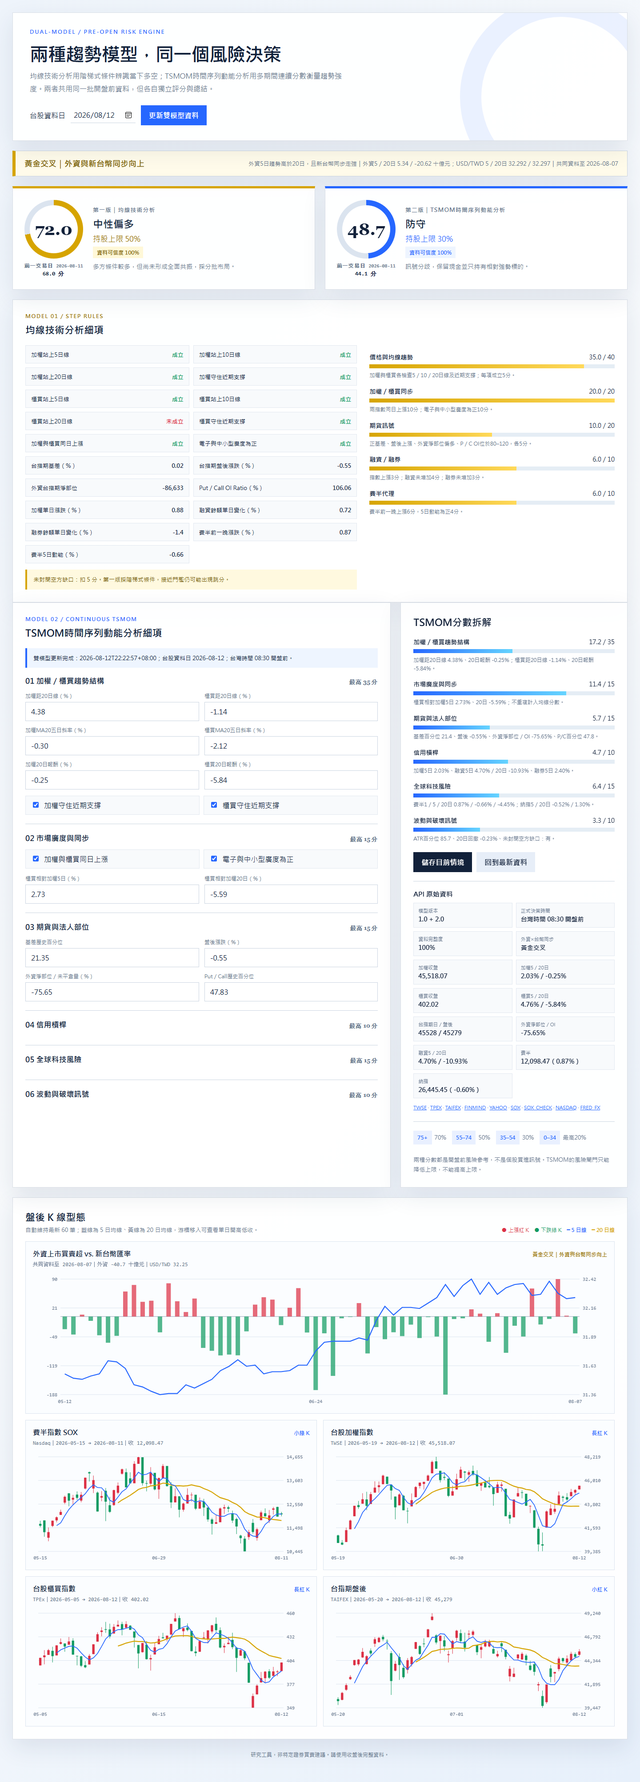
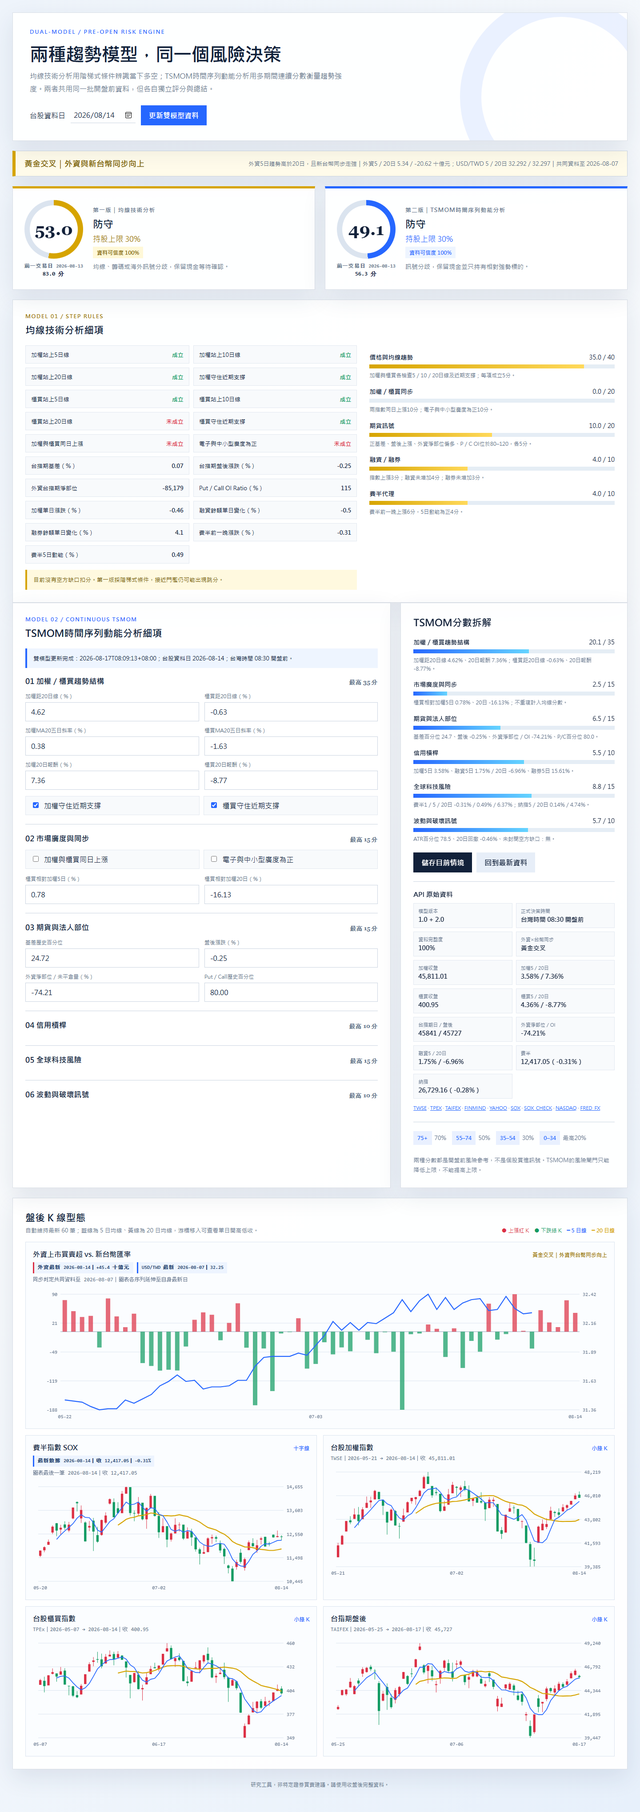
fix: show latest values for foreign FX and SOX charts

diff --git a/index.html b/index.html
@@ -13,7 +13,7 @@
     .model-overview{display:grid;grid-template-columns:1fr 1fr;gap:22px;margin-top:22px}.sync-banner{grid-column:1/-1;display:flex;align-items:center;justify-content:space-between;gap:20px;padding:16px 20px;background:#fff;border:1px solid var(--line);box-shadow:var(--shadow)}.sync-banner strong{font-size:18px}.sync-banner span{color:var(--muted);font-size:13px}.sync-banner.golden{border-left:7px solid #d6a400;background:#fffbea}.sync-banner.golden strong{color:#806100}.sync-banner.death{border-left:7px solid var(--red);background:#fff1f2}.sync-banner.death strong{color:#9f1239}.sync-banner.divergent{border-left:7px solid var(--blue)}.scoreboard{padding:26px;display:grid;grid-template-columns:132px 1fr;align-items:center;gap:22px}.scoreboard.classic{border-top:5px solid #d6a400}.scoreboard.tsmom{border-top:5px solid var(--blue)}.score-stack{text-align:center}.previous-score{margin-top:9px;color:var(--muted);font:700 11px/1.45 Consolas,monospace}.previous-score strong{color:var(--ink);font-size:13px}.dial{width:132px;height:132px;border-radius:50%;display:grid;place-items:center;background:conic-gradient(var(--dial-color,var(--blue)) calc(var(--score)*1%),#dbe4ef 0);position:relative}.dial:after{content:"";position:absolute;inset:12px;border-radius:50%;background:white}.dial span{position:relative;z-index:1;font:800 38px/1 Georgia,serif}.model-name{font-size:13px;font-weight:900;letter-spacing:.08em;color:var(--muted);margin-bottom:8px}.status{font-size:23px;font-weight:800}.limit{color:var(--blue);font-size:17px;margin:7px 0}.classic .limit{color:#9a7400}.confidence{display:inline-block;margin-bottom:8px;padding:5px 9px;background:#eef5ff;color:var(--blue);font-size:12px;font-weight:800}.classic .confidence{background:#fff8d8;color:#806100}.summary{color:var(--muted);line-height:1.6;font-size:14px}
     .grid{display:grid;grid-template-columns:minmax(0,1.25fr) minmax(360px,.75fr);gap:22px}.panel{padding:28px}.panel h2{margin:0 0 20px;font-size:22px}.model-section{margin-top:22px}.model-kicker{font-size:12px;font-weight:900;letter-spacing:.14em;color:var(--blue);margin-bottom:8px}.classic-section .model-kicker{color:#9a7400}.classic-layout{display:grid;grid-template-columns:minmax(0,1.15fr) minmax(360px,.85fr);gap:28px}.classic-signals{display:grid;grid-template-columns:repeat(2,minmax(0,1fr));gap:9px}.classic-signal{display:flex;justify-content:space-between;gap:12px;padding:11px 12px;background:#f8fafc;border:1px solid #e2e8f0;font-size:13px}.classic-signal strong.yes{color:var(--green)}.classic-signal strong.no{color:var(--red)}.classic-signal strong.na{color:var(--muted)}.classic-note{margin-top:14px;padding:12px 14px;background:#fff9df;border-left:4px solid #d6a400;color:#725600;font-size:13px;line-height:1.6}.section{border-top:1px solid var(--line);padding:20px 0}.section:first-of-type{border-top:0;padding-top:0}.section-title{display:flex;justify-content:space-between;align-items:baseline;margin-bottom:14px}.section-title strong{font-size:17px}.section-title span{font:700 13px Georgia,serif;color:var(--muted)}
     .checks{display:grid;grid-template-columns:repeat(2,minmax(0,1fr));gap:9px}.check{display:flex;gap:9px;align-items:flex-start;padding:10px 12px;background:#f8fafc;border:1px solid #e2e8f0}.check input{accent-color:var(--blue);margin-top:3px}.fields{display:grid;grid-template-columns:repeat(2,minmax(0,1fr));gap:12px}.field label{display:block;font-size:12px;color:var(--muted);margin-bottom:6px}.field input{width:100%;border:1px solid var(--line);padding:10px 12px;background:white;color:var(--ink)}details.section summary{list-style:none;cursor:pointer}details.section summary::-webkit-details-marker{display:none}details.section .fields,details.section .checks{margin-top:14px}
-    .results{position:sticky;top:20px}.bar-row{margin:17px 0}.bar-head{display:flex;justify-content:space-between;margin-bottom:7px;font-size:14px}.track{height:9px;background:#e5edf5;overflow:hidden}.fill{height:100%;background:linear-gradient(90deg,var(--blue),var(--cyan));transition:width .35s ease}.note{color:var(--muted);font-size:12px;line-height:1.55;margin-top:6px}.gate-box{display:none;margin:18px 0;padding:12px;border-left:4px solid var(--amber);background:#fff8eb;color:#92400e;font-size:13px;line-height:1.6}.gate-box.error{border-color:var(--red);background:#fff1f2;color:#9f1239}.actions{display:flex;gap:10px;margin-top:22px;flex-wrap:wrap}.actions button,.refresh{border:0;padding:12px 18px;font-weight:800;cursor:pointer}.primary{background:var(--ink);color:white}.secondary{background:#e7eef8;color:var(--ink)}.refresh{background:var(--blue);color:white}.refresh[disabled]{opacity:.55;cursor:wait}.api-status{margin:0 0 18px;padding:12px 14px;background:#eef5ff;border-left:4px solid var(--blue);font-size:13px;line-height:1.55}.api-status.error{background:#fff1f2;border-color:var(--red);color:#9f1239}.raw{margin-top:20px;border-top:1px solid var(--line);padding-top:18px}.raw h3{font-size:15px;margin:0 0 10px}.raw-grid{display:grid;grid-template-columns:1fr 1fr;gap:8px}.raw-item{padding:9px 10px;background:#f8fafc;border:1px solid #e2e8f0}.raw-item span{display:block;color:var(--muted);font-size:11px}.raw-item strong{font-size:14px}.source-list{margin-top:12px;font-size:11px;color:var(--muted);line-height:1.6}.source-list a{color:var(--blue)}.rules{margin-top:22px;padding-top:20px;border-top:1px solid var(--line);font-size:13px;color:var(--muted);line-height:1.75}.badge{display:inline-block;padding:5px 9px;background:#e9f0ff;color:var(--blue);font-weight:800;font-size:12px;margin-right:6px}.charts-panel{margin-top:22px}.charts-head{display:flex;justify-content:space-between;align-items:end;gap:20px;margin-bottom:18px}.charts-head h2{margin:0 0 5px}.charts-head p{margin:0;color:var(--muted);font-size:13px}.chart-legend{font-size:12px;white-space:nowrap}.up-dot{color:var(--red)}.down-dot{color:var(--green)}.ma5-key{color:#2667ff;font-weight:800}.ma20-key{color:#d6a400;font-weight:800}.chart-grid{display:grid;grid-template-columns:repeat(2,minmax(0,1fr));gap:14px}.chart-card{border:1px solid #dbe4ef;background:#fbfdff;padding:16px;min-width:0}.chart-card.wide{grid-column:1/-1}.chart-title{display:flex;justify-content:space-between;gap:12px;align-items:baseline}.chart-title strong{font-size:16px}.pattern{font-size:12px;font-weight:800;color:var(--blue)}.chart-meta{font:12px/1.5 Consolas,monospace;color:var(--muted);margin:5px 0 10px}.chart-wrap{height:250px;position:relative}.chart-card.wide .chart-wrap{height:300px}.chart-wrap canvas{width:100%;height:100%;display:block}.chart-empty{display:grid;place-items:center;height:100%;color:var(--muted);font-size:13px}.footer{text-align:center;color:var(--muted);font-size:12px;padding:26px}
+    .results{position:sticky;top:20px}.bar-row{margin:17px 0}.bar-head{display:flex;justify-content:space-between;margin-bottom:7px;font-size:14px}.track{height:9px;background:#e5edf5;overflow:hidden}.fill{height:100%;background:linear-gradient(90deg,var(--blue),var(--cyan));transition:width .35s ease}.note{color:var(--muted);font-size:12px;line-height:1.55;margin-top:6px}.gate-box{display:none;margin:18px 0;padding:12px;border-left:4px solid var(--amber);background:#fff8eb;color:#92400e;font-size:13px;line-height:1.6}.gate-box.error{border-color:var(--red);background:#fff1f2;color:#9f1239}.actions{display:flex;gap:10px;margin-top:22px;flex-wrap:wrap}.actions button,.refresh{border:0;padding:12px 18px;font-weight:800;cursor:pointer}.primary{background:var(--ink);color:white}.secondary{background:#e7eef8;color:var(--ink)}.refresh{background:var(--blue);color:white}.refresh[disabled]{opacity:.55;cursor:wait}.api-status{margin:0 0 18px;padding:12px 14px;background:#eef5ff;border-left:4px solid var(--blue);font-size:13px;line-height:1.55}.api-status.error{background:#fff1f2;border-color:var(--red);color:#9f1239}.raw{margin-top:20px;border-top:1px solid var(--line);padding-top:18px}.raw h3{font-size:15px;margin:0 0 10px}.raw-grid{display:grid;grid-template-columns:1fr 1fr;gap:8px}.raw-item{padding:9px 10px;background:#f8fafc;border:1px solid #e2e8f0}.raw-item span{display:block;color:var(--muted);font-size:11px}.raw-item strong{font-size:14px}.source-list{margin-top:12px;font-size:11px;color:var(--muted);line-height:1.6}.source-list a{color:var(--blue)}.rules{margin-top:22px;padding-top:20px;border-top:1px solid var(--line);font-size:13px;color:var(--muted);line-height:1.75}.badge{display:inline-block;padding:5px 9px;background:#e9f0ff;color:var(--blue);font-weight:800;font-size:12px;margin-right:6px}.charts-panel{margin-top:22px}.charts-head{display:flex;justify-content:space-between;align-items:end;gap:20px;margin-bottom:18px}.charts-head h2{margin:0 0 5px}.charts-head p{margin:0;color:var(--muted);font-size:13px}.chart-legend{font-size:12px;white-space:nowrap}.up-dot{color:var(--red)}.down-dot{color:var(--green)}.ma5-key{color:#2667ff;font-weight:800}.ma20-key{color:#d6a400;font-weight:800}.chart-grid{display:grid;grid-template-columns:repeat(2,minmax(0,1fr));gap:14px}.chart-card{border:1px solid #dbe4ef;background:#fbfdff;padding:16px;min-width:0}.chart-card.wide{grid-column:1/-1}.chart-title{display:flex;justify-content:space-between;gap:12px;align-items:baseline}.chart-title strong{font-size:16px}.pattern{font-size:12px;font-weight:800;color:var(--blue)}.latest-row{display:flex;gap:8px;flex-wrap:wrap;margin:8px 0 5px}.latest-chip{padding:5px 8px;background:#edf4ff;border-left:3px solid var(--blue);color:#24446f;font:700 11px/1.35 Consolas,monospace}.latest-chip.foreign{border-color:var(--red)}.latest-chip.fx{border-color:var(--blue)}.chart-meta{font:12px/1.5 Consolas,monospace;color:var(--muted);margin:5px 0 10px}.chart-wrap{height:250px;position:relative}.chart-card.wide .chart-wrap{height:300px}.chart-wrap canvas{width:100%;height:100%;display:block}.chart-empty{display:grid;place-items:center;height:100%;color:var(--muted);font-size:13px}.footer{text-align:center;color:var(--muted);font-size:12px;padding:26px}
     @media(max-width:980px){.model-overview,.grid,.classic-layout{grid-template-columns:1fr}.scoreboard{grid-template-columns:120px 1fr}.dial{width:120px;height:120px}.results{position:static}.chart-grid{grid-template-columns:1fr}}@media(max-width:620px){.shell{padding:12px}.hero,.panel,.scoreboard{padding:20px}.fields,.checks,.classic-signals{grid-template-columns:1fr}h1{font-size:32px}.scoreboard{grid-template-columns:1fr}.dial{margin:auto}.charts-head{display:block}.chart-legend{margin-top:10px}.chart-wrap{height:220px}}
     @media(prefers-reduced-motion:reduce){*{transition:none!important}}
   </style>
@@ -65,8 +65,8 @@
   <section class="panel charts-panel">
     <div class="charts-head"><div><h2>盤後 K 線型態</h2><p>自動維持最新 60 筆；藍線為 5 日均線、黃線為 20 日均線，游標移入可查看單日開高低收。</p></div><div class="chart-legend"><span class="up-dot">● 上漲紅 K</span>　<span class="down-dot">● 下跌綠 K</span>　<span class="ma5-key">━ 5 日線</span>　<span class="ma20-key">━ 20 日線</span></div></div>
     <div class="chart-grid">
-      <article class="chart-card wide"><div class="chart-title"><strong>外資上市買賣超 vs. 新台幣匯率</strong><span class="pattern" id="pattern-foreignFx">等待資料</span></div><div class="chart-meta" id="meta-foreignFx">外資：十億元｜匯率：USD/TWD（下跌代表台幣走強）</div><div class="chart-wrap" id="wrap-foreignFx"><canvas id="chart-foreignFx"></canvas></div></article>
-      <article class="chart-card"><div class="chart-title"><strong>費半指數 SOX</strong><span class="pattern" id="pattern-sox">等待資料</span></div><div class="chart-meta" id="meta-sox">Nasdaq｜日 K</div><div class="chart-wrap" id="wrap-sox"><canvas id="chart-sox"></canvas></div></article>
+      <article class="chart-card wide"><div class="chart-title"><strong>外資上市買賣超 vs. 新台幣匯率</strong><span class="pattern" id="pattern-foreignFx">等待資料</span></div><div class="latest-row" id="latest-foreignFx"><span class="latest-chip">最新數據等待更新</span></div><div class="chart-meta" id="meta-foreignFx">外資：十億元｜匯率：USD/TWD（下跌代表台幣走強）</div><div class="chart-wrap" id="wrap-foreignFx"><canvas id="chart-foreignFx"></canvas></div></article>
+      <article class="chart-card"><div class="chart-title"><strong>費半指數 SOX</strong><span class="pattern" id="pattern-sox">等待資料</span></div><div class="latest-row" id="latest-sox"><span class="latest-chip">最新數據等待更新</span></div><div class="chart-meta" id="meta-sox">Nasdaq｜日 K</div><div class="chart-wrap" id="wrap-sox"><canvas id="chart-sox"></canvas></div></article>
       <article class="chart-card"><div class="chart-title"><strong>台股加權指數</strong><span class="pattern" id="pattern-taiex">等待資料</span></div><div class="chart-meta" id="meta-taiex">TWSE｜日 K</div><div class="chart-wrap" id="wrap-taiex"><canvas id="chart-taiex"></canvas></div></article>
       <article class="chart-card"><div class="chart-title"><strong>台股櫃買指數</strong><span class="pattern" id="pattern-tpex">等待資料</span></div><div class="chart-meta" id="meta-tpex">TPEx｜日 K</div><div class="chart-wrap" id="wrap-tpex"><canvas id="chart-tpex"></canvas></div></article>
       <article class="chart-card"><div class="chart-title"><strong>台指期盤後</strong><span class="pattern" id="pattern-futuresNight">等待資料</span></div><div class="chart-meta" id="meta-futuresNight">TAIFEX｜盤後交易時段</div><div class="chart-wrap" id="wrap-futuresNight"><canvas id="chart-futuresNight"></canvas></div></article>
@@ -77,10 +77,12 @@
 <script src="scoring.js"></script>
 <script>
   const ids=['taiexCloseMa20Pct','taiexMa20Slope5','taiexRet20','taiexSupport','tpexCloseMa20Pct','tpexMa20Slope5','tpexRet20','tpexSupport','bothUp','breadthPositive','tpexRelative5','tpexRelative20','basisPercentile','nightPct','foreignOiPct','pcrPercentile','priceRet5','marginRet5','marginRet20','shortRet5','soxRet1','soxRet5','soxRet20','nasdaqRet5','nasdaqRet20','soxRelative20','atrPercentile','drawdown20','bearGap'];
-  let chartSeries={},classicInput={},foreignFxMeta={},previousReference=null;
+  let chartSeries={},classicInput={},foreignFxMeta={},marketMeta={},previousReference=null;
   const read=()=>Object.fromEntries(ids.map(id=>{const el=document.getElementById(id);return[id,el.type==='checkbox'?el.checked:(el.value===''?null:Number(el.value))]}));
   const classicFromData=data=>{const m=data.market||{},i=data.input||{},t=m.taiex||{},o=m.tpex||{},f=m.futures||{},c=m.credit||{},s=m.sox||{};return{taiexAboveMa5:t.close!=null&&t.mas?.['5']!=null?t.close>=t.mas['5']:null,taiexAboveMa10:t.close!=null&&t.mas?.['10']!=null?t.close>=t.mas['10']:null,taiexAboveMa20:t.close!=null&&t.mas?.['20']!=null?t.close>=t.mas['20']:null,tpexAboveMa5:o.close!=null&&o.mas?.['5']!=null?o.close>=o.mas['5']:null,tpexAboveMa10:o.close!=null&&o.mas?.['10']!=null?o.close>=o.mas['10']:null,tpexAboveMa20:o.close!=null&&o.mas?.['20']!=null?o.close>=o.mas['20']:null,taiexSupport:i.taiexSupport,tpexSupport:i.tpexSupport,bothUp:i.bothUp,breadthPositive:i.breadthPositive,basisPct:f.basis_pct,nightPct:i.nightPct,foreignNet:f.foreign_net,pcrOi:f.pcr_oi,pricePct:t.close!=null&&t.previous?((t.close/t.previous-1)*100):null,marginPct:c.margin_pct,shortPct:c.short_pct,soxPct:s.change_pct,soxRet5:i.soxRet5,bearGap:i.bearGap}};
   const classicLabels=[['taiexAboveMa5','加權站上5日線'],['taiexAboveMa10','加權站上10日線'],['taiexAboveMa20','加權站上20日線'],['taiexSupport','加權守住近期支撐'],['tpexAboveMa5','櫃買站上5日線'],['tpexAboveMa10','櫃買站上10日線'],['tpexAboveMa20','櫃買站上20日線'],['tpexSupport','櫃買守住近期支撐'],['bothUp','加權與櫃買同日上漲'],['breadthPositive','電子與中小型廣度為正'],['basisPct','台指期基差（%）'],['nightPct','台指期盤後漲跌（%）'],['foreignNet','外資台指期淨部位'],['pcrOi','Put／Call OI Ratio（%）'],['pricePct','加權單日漲跌（%）'],['marginPct','融資餘額單日變化（%）'],['shortPct','融券餘額單日變化（%）'],['soxPct','費半前一晚漲跌（%）'],['soxRet5','費半5日動能（%）']];
+  const signed=(value,digits=2)=>value==null?'N/A':`${value>=0?'+':''}${Number(value).toFixed(digits)}`;
+  function renderLatestFields(){const fx=marketMeta.foreign_fx||{},sox=marketMeta.sox||{},foreign=document.getElementById('latest-foreignFx'),soxField=document.getElementById('latest-sox');foreign.innerHTML=fx.foreign_as_of?`<span class="latest-chip foreign">外資最新 ${fx.foreign_as_of}｜${signed(fx.foreign_latest_bn,1)} 十億元</span><span class="latest-chip fx">USD/TWD 最新 ${fx.fx_as_of}｜${Number(fx.usd_twd_latest).toFixed(2)}</span>`:'<span class="latest-chip">最新數據 unavailable</span>';soxField.innerHTML=sox.date?`<span class="latest-chip">最新數據 ${sox.date}｜收 ${Number(sox.close).toLocaleString()}｜${signed(sox.change_pct)}%</span>`:'<span class="latest-chip">最新數據 unavailable</span>'}
   function renderPreviousScores(){const day=previousReference?.trading_day;if(!day){document.getElementById('classicPrevious').innerHTML='前一交易日 <strong>N/A</strong>';document.getElementById('tsmomPrevious').innerHTML='前一交易日 <strong>N/A</strong>';return}const classic=TrendScorer.scoreClassic(previousReference.classic_input),tsmom=TrendScorer.score(previousReference.input);document.getElementById('classicPrevious').innerHTML=`前一交易日 ${day}<br><strong>${classic.total.toFixed(1)} 分</strong>`;document.getElementById('tsmomPrevious').innerHTML=`前一交易日 ${day}<br><strong>${tsmom.total.toFixed(1)} 分</strong>`}
   function renderClassic(){const r=TrendScorer.scoreClassic(classicInput),fmt=(k,v)=>typeof v==='boolean'?`<strong class="${v?'yes':'no'}">${v?'成立':'未成立'}</strong>`:(v===null||v===undefined?'<strong class="na">N/A</strong>':`<strong>${Number(v).toLocaleString(undefined,{maximumFractionDigits:k==='foreignNet'?0:2})}</strong>`);document.getElementById('classicTotal').textContent=r.total.toFixed(1);document.getElementById('classicDial').style.setProperty('--score',r.total);document.getElementById('classicStatus').textContent=r.regime.name;document.getElementById('classicLimit').textContent=`持股上限 ${r.regime.exposure}`;document.getElementById('classicConfidence').textContent=`資料可信度 ${r.confidence.toFixed(0)}%`;document.getElementById('classicSummary').textContent=r.regime.summary;document.getElementById('classicSignals').innerHTML=classicLabels.map(([k,label])=>`<div class="classic-signal"><span>${label}</span>${fmt(k,classicInput[k])}</div>`).join('');document.getElementById('classicBreakdown').innerHTML=r.details.map(d=>`<div class="bar-row"><div class="bar-head"><strong>${d.label}</strong><span>${d.score.toFixed(1)}／${d.max}</span></div><div class="track"><div class="fill" style="width:${d.score/d.max*100}%;background:linear-gradient(90deg,#d6a400,#ffd95a)"></div></div><div class="note">${d.note}</div></div>`).join('');document.getElementById('classicPenalty').textContent=r.gapPenalty?`未封閉空方缺口：扣 ${r.gapPenalty} 分。第一版採階梯式條件，接近門檻仍可能出現跳分。`:'目前沒有空方缺口扣分。第一版採階梯式條件，接近門檻仍可能出現跳分。';}
   function render(){const r=TrendScorer.score(read()),gate=document.getElementById('gateBox');document.getElementById('total').textContent=r.total.toFixed(1);document.getElementById('dial').style.setProperty('--score',r.total);document.getElementById('status').textContent=r.regime.name;document.getElementById('limit').textContent=`持股上限 ${r.regime.exposure}`;document.getElementById('confidence').textContent=`資料可信度 ${r.confidence.toFixed(0)}%`;document.getElementById('summary').textContent=r.regime.summary;gate.style.display=r.gates.length?'block':'none';gate.className='gate-box'+(!r.actionable?' error':'');gate.textContent=r.gates.length?`風險閘門：${r.gates.join('；')}`:'';document.getElementById('breakdown').innerHTML=r.details.map(d=>`<div class="bar-row"><div class="bar-head"><strong>${d.label}</strong><span>${d.score.toFixed(1)}／${d.max}${d.complete?'':` · 可用${d.availableMax}`}</span></div><div class="track"><div class="fill" style="width:${d.score/d.max*100}%"></div></div><div class="note">${d.note}</div></div>`).join('');renderClassic();}
@@ -97,20 +99,30 @@
     const movingAverage=size=>rows.map((r,i)=>i<size-1?null:rows.slice(i-size+1,i+1).reduce((s,v)=>s+v.close,0)/size);
     const drawAverage=(values,start,color,width)=>{c.strokeStyle=color;c.lineWidth=width;c.beginPath();values.forEach((v,i)=>{if(v!==null)(i===start?c.moveTo(x(i),y(v)):c.lineTo(x(i),y(v)))});c.stroke()};
     drawAverage(movingAverage(20),19,'#d6a400',2.2);drawAverage(movingAverage(5),4,'#2667ff',1.7);canvas.dataset.ma5='drawn';canvas.dataset.ma20='drawn';
-    c.fillStyle='#64748b';c.textAlign='center';[0,Math.floor((rows.length-1)/2),rows.length-1].forEach(i=>c.fillText(rows[i].date.slice(5),x(i),h-7));const last=rows.at(-1);pattern.textContent=candlePattern(last);meta.textContent=`${meta.textContent.split('｜')[0]}｜${rows[0].date} → ${last.date}｜收 ${last.close.toLocaleString()}`;
+    c.fillStyle='#64748b';c.textAlign='center';[0,Math.floor((rows.length-1)/2),rows.length-1].forEach(i=>c.fillText(rows[i].date.slice(5),x(i),h-7));const last=rows.at(-1);pattern.textContent=candlePattern(last);meta.textContent=key==='sox'?`圖表最後一筆 ${last.date}｜收 ${last.close.toLocaleString()}`:`${meta.textContent.split('｜')[0]}｜${rows[0].date} → ${last.date}｜收 ${last.close.toLocaleString()}`;
     canvas.onmousemove=e=>{const rect=canvas.getBoundingClientRect(),i=Math.max(0,Math.min(rows.length-1,Math.floor((e.clientX-rect.left-pad.l)/(iw/rows.length)))),r=rows[i];meta.textContent=`${r.date}｜開 ${r.open.toLocaleString()}　高 ${r.high.toLocaleString()}　低 ${r.low.toLocaleString()}　收 ${r.close.toLocaleString()}`};canvas.onmouseleave=()=>drawChart(key,rows);meta.dataset.count=rows.length;meta.title=`目前顯示最新 ${rows.length} 筆資料`;
   }
-  function drawForeignFx(rows){const canvas=document.getElementById('chart-foreignFx'),wrap=document.getElementById('wrap-foreignFx'),pattern=document.getElementById('pattern-foreignFx'),meta=document.getElementById('meta-foreignFx');if(!canvas||!wrap)return;if(!rows?.length){wrap.innerHTML='<div class="chart-empty">目前沒有共同日期的外資與匯率資料</div>';pattern.textContent='資料不足';return}rows=rows.slice(-60);const dpr=Math.min(devicePixelRatio||1,2),w=wrap.clientWidth,h=wrap.clientHeight;canvas.width=w*dpr;canvas.height=h*dpr;const c=canvas.getContext('2d');c.scale(dpr,dpr);const pad={l:62,r:62,t:14,b:26},iw=w-pad.l-pad.r,ih=h-pad.t-pad.b,x=i=>pad.l+(i+.5)*iw/rows.length,bw=Math.max(3,Math.min(10,iw/rows.length*.55));const foreign=rows.map(r=>r.foreign_net_bn),fMin=Math.min(0,...foreign),fMax=Math.max(0,...foreign),fRange=fMax-fMin||1,yF=v=>pad.t+(fMax-v)/fRange*ih,zero=yF(0);const fx=rows.map(r=>r.usd_twd),fxMin=Math.min(...fx),fxMax=Math.max(...fx),fxRange=fxMax-fxMin||1,yX=v=>pad.t+(fxMax-v)/fxRange*ih;c.font='11px Consolas';c.strokeStyle='#dce5ef';c.fillStyle='#64748b';c.lineWidth=1;for(let i=0;i<5;i++){const yy=pad.t+ih*i/4;c.beginPath();c.moveTo(pad.l,yy);c.lineTo(pad.l+iw,yy);c.stroke();c.textAlign='right';c.fillText((fMax-fRange*i/4).toFixed(0),pad.l-7,yy+4);c.textAlign='left';c.fillText((fxMax-fxRange*i/4).toFixed(2),pad.l+iw+7,yy+4)}c.strokeStyle='#94a3b8';c.beginPath();c.moveTo(pad.l,zero);c.lineTo(pad.l+iw,zero);c.stroke();rows.forEach((r,i)=>{c.fillStyle=r.foreign_net_bn>=0?'rgba(220,48,69,.72)':'rgba(18,155,99,.72)';const yy=yF(r.foreign_net_bn);c.fillRect(x(i)-bw/2,Math.min(zero,yy),bw,Math.max(1,Math.abs(zero-yy)))});c.strokeStyle='#2667ff';c.lineWidth=2.2;c.beginPath();rows.forEach((r,i)=>i?c.lineTo(x(i),yX(r.usd_twd)):c.moveTo(x(i),yX(r.usd_twd)));c.stroke();c.fillStyle='#64748b';c.textAlign='center';[0,Math.floor((rows.length-1)/2),rows.length-1].forEach(i=>c.fillText(rows[i].date.slice(5),x(i),h-7));const labels={golden:'黃金交叉｜外資與台幣同步向上',death:'死亡交叉｜外資與台幣同步向下',divergent:'方向分歧',unavailable:'資料不足'},last=rows.at(-1);pattern.textContent=labels[foreignFxMeta.signal]||'方向分歧';pattern.style.color=foreignFxMeta.signal==='death'?'#dc3045':foreignFxMeta.signal==='golden'?'#9a7400':'#2667ff';meta.textContent=`共同資料至 ${foreignFxMeta.as_of||last.date}｜外資 ${last.foreign_net_bn.toFixed(1)} 十億元｜USD/TWD ${last.usd_twd.toFixed(2)}`;canvas.dataset.sync='drawn';canvas.onmousemove=e=>{const rect=canvas.getBoundingClientRect(),i=Math.max(0,Math.min(rows.length-1,Math.floor((e.clientX-rect.left-pad.l)/(iw/rows.length)))),r=rows[i];meta.textContent=`${r.date}｜外資 ${r.foreign_net_bn.toFixed(1)} 十億元｜USD/TWD ${r.usd_twd.toFixed(2)}`};canvas.onmouseleave=()=>drawForeignFx(rows)}
+  function drawForeignFx(rows){
+    const canvas=document.getElementById('chart-foreignFx'),wrap=document.getElementById('wrap-foreignFx'),pattern=document.getElementById('pattern-foreignFx'),meta=document.getElementById('meta-foreignFx');if(!canvas||!wrap)return;
+    if(!rows?.length){wrap.innerHTML='<div class="chart-empty">目前沒有外資或匯率資料</div>';pattern.textContent='資料不足';return}
+    rows=rows.slice(-60);const dpr=Math.min(devicePixelRatio||1,2),w=wrap.clientWidth,h=wrap.clientHeight;canvas.width=w*dpr;canvas.height=h*dpr;const c=canvas.getContext('2d');c.scale(dpr,dpr);const pad={l:62,r:62,t:14,b:26},iw=w-pad.l-pad.r,ih=h-pad.t-pad.b,x=i=>pad.l+(i+.5)*iw/rows.length,bw=Math.max(3,Math.min(10,iw/rows.length*.55));
+    const foreign=rows.map(r=>r.foreign_net_bn).filter(Number.isFinite),fMin=Math.min(0,...foreign),fMax=Math.max(0,...foreign),fRange=fMax-fMin||1,yF=v=>pad.t+(fMax-v)/fRange*ih,zero=yF(0);const fx=rows.map(r=>r.usd_twd).filter(Number.isFinite),fxMin=Math.min(...fx),fxMax=Math.max(...fx),fxRange=fxMax-fxMin||1,yX=v=>pad.t+(fxMax-v)/fxRange*ih;
+    c.font='11px Consolas';c.strokeStyle='#dce5ef';c.fillStyle='#64748b';c.lineWidth=1;for(let i=0;i<5;i++){const yy=pad.t+ih*i/4;c.beginPath();c.moveTo(pad.l,yy);c.lineTo(pad.l+iw,yy);c.stroke();c.textAlign='right';c.fillText((fMax-fRange*i/4).toFixed(0),pad.l-7,yy+4);c.textAlign='left';c.fillText((fxMax-fxRange*i/4).toFixed(2),pad.l+iw+7,yy+4)}
+    c.strokeStyle='#94a3b8';c.beginPath();c.moveTo(pad.l,zero);c.lineTo(pad.l+iw,zero);c.stroke();rows.forEach((r,i)=>{if(!Number.isFinite(r.foreign_net_bn))return;c.fillStyle=r.foreign_net_bn>=0?'rgba(220,48,69,.72)':'rgba(18,155,99,.72)';const yy=yF(r.foreign_net_bn);c.fillRect(x(i)-bw/2,Math.min(zero,yy),bw,Math.max(1,Math.abs(zero-yy)))});
+    c.strokeStyle='#2667ff';c.lineWidth=2.2;c.beginPath();let started=false;rows.forEach((r,i)=>{if(!Number.isFinite(r.usd_twd))return;started?c.lineTo(x(i),yX(r.usd_twd)):c.moveTo(x(i),yX(r.usd_twd));started=true});c.stroke();
+    c.fillStyle='#64748b';c.textAlign='center';[0,Math.floor((rows.length-1)/2),rows.length-1].forEach(i=>c.fillText(rows[i].date.slice(5),x(i),h-7));const labels={golden:'黃金交叉｜外資與台幣同步向上',death:'死亡交叉｜外資與台幣同步向下',divergent:'方向分歧',unavailable:'資料不足'};pattern.textContent=labels[foreignFxMeta.signal]||'方向分歧';pattern.style.color=foreignFxMeta.signal==='death'?'#dc3045':foreignFxMeta.signal==='golden'?'#9a7400':'#2667ff';meta.textContent=`同步判定共同資料至 ${foreignFxMeta.as_of||'N/A'}｜圖表各序列延伸至自身最新日`;
+    canvas.dataset.sync='drawn';canvas.dataset.lastDate=rows.at(-1).date;canvas.onmousemove=e=>{const rect=canvas.getBoundingClientRect(),i=Math.max(0,Math.min(rows.length-1,Math.floor((e.clientX-rect.left-pad.l)/(iw/rows.length)))),r=rows[i],foreignValue=Number.isFinite(r.foreign_net_bn)?`${r.foreign_net_bn.toFixed(1)} 十億元`:'N/A',fxValue=Number.isFinite(r.usd_twd)?r.usd_twd.toFixed(2):'N/A';meta.textContent=`${r.date}｜外資 ${foreignValue}｜USD/TWD ${fxValue}`};canvas.onmouseleave=()=>drawForeignFx(rows)
+  }
   function drawAllCharts(){Object.entries(chartSeries).forEach(([k,v])=>k==='foreignFx'?drawForeignFx(v):drawChart(k,v))}
   const hosted=location.hostname.endsWith('github.io')||new URLSearchParams(location.search).has('static');
   const cachedUrl=hosted?'./latest_market_data.json':'/api/cached';
   function applyData(data){
     classicInput=data.classic_input||classicFromData(data);
     previousReference=data.previous_reference||null;renderPreviousScores();
-    foreignFxMeta=data.market?.foreign_fx||{};const sync=document.getElementById('syncSignal'),labels={golden:['黃金交叉｜外資與新台幣同步向上','外資5日趨勢高於20日，且新台幣同步走強'],death:['死亡交叉｜外資與新台幣同步向下','外資5日趨勢低於20日，且新台幣同步走弱'],divergent:['方向分歧｜尚未形成同步交叉','外資與新台幣方向不同或持平，不標示交叉'],unavailable:['同步訊號資料不足','缺值不視為同步向上或向下']},signal=foreignFxMeta.signal||'unavailable',copy=labels[signal]||labels.unavailable,values=foreignFxMeta.foreign_ma5_bn!=null?`｜外資5／20日 ${foreignFxMeta.foreign_ma5_bn}／${foreignFxMeta.foreign_ma20_bn} 十億元；USD/TWD 5／20日 ${foreignFxMeta.usd_twd_ma5}／${foreignFxMeta.usd_twd_ma20}`:'';sync.className=`sync-banner ${signal}`;sync.innerHTML=`<strong>${copy[0]}</strong><span>${copy[1]}${values}｜共同資料至 ${foreignFxMeta.as_of||'N/A'}</span>`;
+    marketMeta=data.market||{};foreignFxMeta=marketMeta.foreign_fx||{};renderLatestFields();const sync=document.getElementById('syncSignal'),labels={golden:['黃金交叉｜外資與新台幣同步向上','外資5日趨勢高於20日，且新台幣同步走強'],death:['死亡交叉｜外資與新台幣同步向下','外資5日趨勢低於20日，且新台幣同步走弱'],divergent:['方向分歧｜尚未形成同步交叉','外資與新台幣方向不同或持平，不標示交叉'],unavailable:['同步訊號資料不足','缺值不視為同步向上或向下']},signal=foreignFxMeta.signal||'unavailable',copy=labels[signal]||labels.unavailable,values=foreignFxMeta.foreign_ma5_bn!=null?`｜外資5／20日 ${foreignFxMeta.foreign_ma5_bn}／${foreignFxMeta.foreign_ma20_bn} 十億元；USD/TWD 5／20日 ${foreignFxMeta.usd_twd_ma5}／${foreignFxMeta.usd_twd_ma20}`:'';sync.className=`sync-banner ${signal}`;sync.innerHTML=`<strong>${copy[0]}</strong><span>${copy[1]}${values}｜共同資料至 ${foreignFxMeta.as_of||'N/A'}</span>`;
     Object.entries(data.input||{}).forEach(([id,v])=>{const el=document.getElementById(id);if(el)el.type==='checkbox'?el.checked=!!v:el.value=(v===null||v===undefined?'':Number(v).toFixed(2))});
     document.getElementById('asof').value=data.trading_day||'';
-    const m=data.market||{};
+    const m=marketMeta;
     const items=[['模型版本',data.model_version||'-'],['正式決策時間',data.decision_clock||'-'],['資料完整度',`${data.data_quality?.completeness??'-'}%`],['外資×台幣同步',copy[0].split('｜')[0]],['加權收盤',m.taiex?.close?.toLocaleString()],['加權5／20日',`${m.taiex?.ret5?.toFixed(2)??'-'}%／${m.taiex?.ret20?.toFixed(2)??'-'}%`],['櫃買收盤',m.tpex?.close?.toLocaleString()],['櫃買5／20日',`${m.tpex?.ret5?.toFixed(2)??'-'}%／${m.tpex?.ret20?.toFixed(2)??'-'}%`],['台指期日／盤後',`${m.futures?.day??'-'}／${m.futures?.night??'-'}`],['外資淨部位／OI',`${m.futures?.foreign_oi_pct?.toFixed(2)??'-'}%`],['融資5／20日',`${m.credit?.margin_ret5?.toFixed(2)??'-'}%／${m.credit?.margin_ret20?.toFixed(2)??'-'}%`],['費半',`${m.sox?.close?.toLocaleString()??'-'}（${m.sox?.change_pct?.toFixed(2)??'-'}%）`],['納指',`${m.nasdaq?.close?.toLocaleString()??'-'}（${m.nasdaq?.change_pct?.toFixed(2)??'-'}%）`]];
     document.getElementById('rawGrid').innerHTML=items.map(x=>`<div class="raw-item"><span>${x[0]}</span><strong>${x[1]}</strong></div>`).join('');
     document.getElementById('sourceList').innerHTML=Object.entries(data.sources||{}).map(([k,u])=>`<a href="${u}" target="_blank" rel="noreferrer">${k.toUpperCase()}</a>`).join(' · ');
@@ -124,6 +136,6 @@
   document.getElementById('refresh').onclick=refresh;
   document.getElementById('reset').onclick=()=>{localStorage.removeItem('trend-scorer-v2');refresh()};
   window.addEventListener('resize',()=>{clearTimeout(window.chartResizeTimer);window.chartResizeTimer=setTimeout(drawAllCharts,120)});
-  const saved=JSON.parse(localStorage.getItem('trend-scorer-v2')||'null');if(saved){document.getElementById('asof').value=saved.asof||'';Object.entries(saved.data||{}).forEach(([id,v])=>{const el=document.getElementById(id);if(el)el.type==='checkbox'?el.checked=!!v:el.value=(v??'')});render();fetch(cachedUrl,{cache:'no-store'}).then(r=>r.json()).then(d=>{if(d.ok){classicInput=d.classic_input||classicFromData(d);previousReference=d.previous_reference||null;chartSeries=d.charts||{};renderPreviousScores();renderClassic();drawAllCharts()}})}else{render();fetch(cachedUrl,{cache:'no-store'}).then(r=>r.json()).then(d=>{if(d.ok)applyData(d)}).finally(refresh)}
+  const saved=JSON.parse(localStorage.getItem('trend-scorer-v2')||'null');if(saved){document.getElementById('asof').value=saved.asof||'';Object.entries(saved.data||{}).forEach(([id,v])=>{const el=document.getElementById(id);if(el)el.type==='checkbox'?el.checked=!!v:el.value=(v??'')});render();fetch(cachedUrl,{cache:'no-store'}).then(r=>r.json()).then(d=>{if(d.ok){classicInput=d.classic_input||classicFromData(d);previousReference=d.previous_reference||null;marketMeta=d.market||{};foreignFxMeta=marketMeta.foreign_fx||{};chartSeries=d.charts||{};renderPreviousScores();renderLatestFields();renderClassic();drawAllCharts()}})}else{render();fetch(cachedUrl,{cache:'no-store'}).then(r=>r.json()).then(d=>{if(d.ok)applyData(d)}).finally(refresh)}
 </script>
 </body></html>

diff --git a/server.py b/server.py
@@ -276,12 +276,19 @@ def foreign_fx_bundle(today: date):
         parts = line.split(",")
         if len(parts) == 2 and clean_number(parts[1]) is not None: fx[parts[0]] = clean_number(parts[1])
     common = sorted(set(foreign) & set(fx))
-    rows = [{"date": d, "foreign_net_bn": round(foreign[d], 3), "usd_twd": fx[d]} for d in common]
-    if len(rows) < 20: raise ValueError("外資與匯率共同資料不足20日")
-    foreign5 = sum(r["foreign_net_bn"] for r in rows[-5:]) / 5; foreign20 = sum(r["foreign_net_bn"] for r in rows[-20:]) / 20
-    fx5 = sum(r["usd_twd"] for r in rows[-5:]) / 5; fx20 = sum(r["usd_twd"] for r in rows[-20:]) / 20
+    common_rows = [{"date": d, "foreign_net_bn": round(foreign[d], 3), "usd_twd": fx[d]} for d in common]
+    if len(common_rows) < 20: raise ValueError("外資與匯率共同資料不足20日")
+    foreign5 = sum(r["foreign_net_bn"] for r in common_rows[-5:]) / 5; foreign20 = sum(r["foreign_net_bn"] for r in common_rows[-20:]) / 20
+    fx5 = sum(r["usd_twd"] for r in common_rows[-5:]) / 5; fx20 = sum(r["usd_twd"] for r in common_rows[-20:]) / 20
     signal, foreign_direction, twd_direction = synchronization_signal(foreign5, foreign20, fx5, fx20)
-    return {"signal": signal, "foreign_direction": foreign_direction, "twd_direction": twd_direction, "as_of": rows[-1]["date"], "foreign_ma5_bn": round(foreign5, 2), "foreign_ma20_bn": round(foreign20, 2), "usd_twd_ma5": round(fx5, 4), "usd_twd_ma20": round(fx20, 4), "history": rows[-60:]}
+    all_dates = sorted(set(foreign) | set(fx))
+    history = [{"date": d, "foreign_net_bn": round(foreign[d], 3) if d in foreign else None, "usd_twd": fx.get(d)} for d in all_dates]
+    foreign_as_of, fx_as_of = max(foreign), max(fx)
+    return {"signal": signal, "foreign_direction": foreign_direction, "twd_direction": twd_direction,
+            "as_of": common_rows[-1]["date"], "foreign_as_of": foreign_as_of, "fx_as_of": fx_as_of,
+            "foreign_latest_bn": round(foreign[foreign_as_of], 3), "usd_twd_latest": fx[fx_as_of],
+            "foreign_ma5_bn": round(foreign5, 2), "foreign_ma20_bn": round(foreign20, 2),
+            "usd_twd_ma5": round(fx5, 4), "usd_twd_ma20": round(fx20, 4), "history": history[-60:]}
 
 
 def html_rows(url):

diff --git a/test_dashboard_v2.py b/test_dashboard_v2.py
@@ -39,7 +39,15 @@ with sync_playwright() as playwright:
     assert expected in sync_text
     assert DATA["market"]["foreign_fx"]["as_of"] in sync_text
     assert page.locator("#chart-foreignFx[data-sync='drawn']").count() == 1
-    assert page.locator("#meta-foreignFx").inner_text().startswith("共同資料至")
+    foreign_fx = DATA["market"]["foreign_fx"]
+    assert foreign_fx["foreign_as_of"] in page.locator("#latest-foreignFx").inner_text()
+    assert foreign_fx["fx_as_of"] in page.locator("#latest-foreignFx").inner_text()
+    assert page.locator("#meta-foreignFx").inner_text().startswith("同步判定共同資料至")
+    assert page.locator("#chart-foreignFx").get_attribute("data-last-date") == foreign_fx["foreign_as_of"]
+    sox = DATA["market"]["sox"]
+    assert sox["date"] in page.locator("#latest-sox").inner_text()
+    assert f'{sox["close"]:,.2f}' in page.locator("#latest-sox").inner_text()
+    assert sox["date"] in page.locator("#meta-sox").inner_text()
     assert page.locator("canvas[data-ma5='drawn'][data-ma20='drawn']").count() == 4
 
     page.locator("#taiexRet20").fill("")

diff --git a/README.md b/README.md
@@ -11,6 +11,8 @@
 
 同步方向以共同資料日的 5 日／20 日均值判定。外資 5 日平均買賣超高於 20 日平均代表向上；USD/TWD 5 日均值低於 20 日均值代表新台幣走強。此訊號目前只作交叉確認，不額外加入兩套模型分數，避免重複計分。
 
+外資與 USD/TWD 的公布日期可能不同。圖表會讓兩個序列各自延伸到來源的最新資料日，並分別顯示最新日期與數值；黃金／死亡交叉仍只使用雙方都有資料的共同日期。費半圖表也會在圖卡上直接顯示最新交易日、收盤與漲跌幅。
+
 ## 資料更新
 
 GitHub Actions 於台北時間每個工作日約 08:15 執行 `python server.py --refresh-only`，更新 `latest_market_data.json` 與每日快照後部署網頁。GitHub 排程可能延遲；頁面會顯示實際資料產生時間與台股資料日。

diff --git a/使用說明.md b/使用說明.md
@@ -26,6 +26,8 @@ V2 定義為「台灣時間 08:30 開盤前風險分數」：
 
 外資與匯率資料只採雙方都有值的共同日期，總表及圖表會標出實際共同截止日。此訊號目前是額外確認條件，不直接加減兩套模型分數。
 
+圖表顯示則不會因其中一個來源較慢而隱藏另一個來源的新資料：外資柱狀圖與 USD/TWD 折線各自畫到其最新公布日，圖卡上方分別標示最新日期與數值。費半圖卡同樣標示最新交易日、收盤價及單日漲跌幅；「同步判定共同資料至」只代表交叉判斷的共同截止日。
+
 ## 六大模組
 
 | 模組 | 權重 | 核心資料 |
